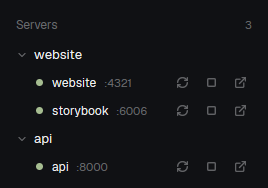
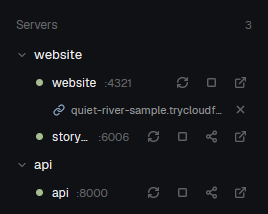
feat(servers): share a server through a public link (#5)
A Share button starts a Cloudflare quick tunnel to the server's port as a pane-less herdr-core terminal named share-<port>, shows its address under the server and copies it. The share ends from its row, with the server's Stop, or when the server is gone.

Claude-Session: https://claude.ai/code/session_017X7Wkih5tBkeugL9aTSrgA

diff --git a/servers/mods/servers/main.js b/servers/mods/servers/main.js
@@ -1,8 +1,8 @@
 // A sidebar section listing the local servers that are running: every process
 // listening on a TCP port that was started from a Herdr terminal or is a dev
 // runtime (node, bun, python, ...), grouped under the space it belongs to.
-// Each one has a button that restarts it, one that stops it and one that opens
-// it in the browser.
+// Each one has buttons that restart it, stop it, share it through a public
+// link (a Cloudflare quick tunnel) and open it in the browser.
 // A space's row folds its servers away, as a file's row does in figma-bridge.
 // The list comes from scan.js, run every few seconds while the section is shown.
 // props { demo: true } draws sample rows without running anything; with
@@ -16,11 +16,11 @@ import { scan, listeners, argv } from "./scan.js";
 const MOD = "servers";
 const ICON = (name) => `mods/${MOD}/${name}.svg`;
 const EVERY = 5000;
-const HEAD = 41, GROUP = 28, ROW = 28, NOTE = 48, FOOT = 8, MAX = 300;
+const HEAD = 41, GROUP = 28, ROW = 28, SHARE = 26, NOTE = 48, FOOT = 8, MAX = 300;
 const OTHER = "other"; // the group of servers no space claims
 
 const DEMO = [
-  { space: "a", label: "website", servers: [{ port: 4321, pid: 1, name: "website", tool: "astro" }, { port: 6006, pid: 2, name: "storybook", tool: "storybook" }] },
+  { space: "a", label: "website", servers: [{ port: 4321, pid: 1, name: "website", tool: "astro", link: "https://quiet-river-sample.trycloudflare.com" }, { port: 6006, pid: 2, name: "storybook", tool: "storybook" }] },
   { space: "b", label: "api", servers: [{ port: 8000, pid: 3, name: "api", tool: "uvicorn" }] },
 ];
 
@@ -82,6 +82,11 @@ export default class Servers extends View {
     this.error = null;
     this.cache = new Map();
     this.stopping = new Set();
+    this.restarting = new Set(); // ports
+    this.pending = new Set();    // ports whose tunnel is starting
+    this.fresh = new Set();      // ports whose address is copied when it arrives
+    this.urls = new Map();       // tunnel terminal -> public address
+    this.missed = new Map();     // port -> reloads its server has been gone
     try { this.folded = new Set(JSON.parse(localStorage.getItem("folded") ?? "[]")); } catch { this.folded = new Set(); }
     if (this.demo) { this.folded = new Set(props().folded ?? []); return; }
     cx.timer.every(EVERY, (cx) => { if (!this.loading && (block()?.shown ?? true)) this.poll(cx); });
@@ -96,10 +101,83 @@ export default class Servers extends View {
         const pids = new Set(this.servers.map((s) => s.pid));
         for (const pid of this.stopping) if (!pids.has(pid)) this.stopping.delete(pid);
         this.error = null;
+        await this.links(cx);
       } catch (e) {
         this.error = { title: "Couldn't list the servers", body: String(e?.message ?? e).slice(0, 160) };
       } finally { this.loading = false; cx.notify(); }
     });
+  }
+
+  // The tunnels: live herdr-core terminals named share-<port>, each running
+  // cloudflared for that port. Map port -> terminal address.
+  shares() {
+    const found = new Map();
+    for (const t of terminals()) {
+      const m = /^share-(\d+)$/.exec(t.name ?? "");
+      if (m && (t.state ?? "live") === "live") found.set(Number(m[1]), t.address);
+    }
+    return found;
+  }
+
+  // Reads each new tunnel's public address off its terminal, and ends the
+  // tunnels whose server has been gone for three reloads.
+  async links(cx) {
+    const shared = this.shares(), ports = new Set(this.servers.map((s) => s.port));
+    for (const address of this.urls.keys()) if (![...shared.values()].includes(address)) this.urls.delete(address);
+    for (const [port, address] of shared) {
+      this.pending.delete(port);
+      if (!this.urls.has(address)) {
+        const url = (await hc(["read", address, "--lines", "200"])).stdout.match(/https:\/\/[a-z0-9-]+\.trycloudflare\.com/)?.[0];
+        if (url) {
+          this.urls.set(address, url);
+          if (this.fresh.delete(port)) { cx.write_to_clipboard(url); notify({ title: "Public link copied", body: url, level: "success" }); }
+        }
+      }
+      const missed = ports.has(port) || this.restarting.has(port) ? 0 : (this.missed.get(port) ?? 0) + 1;
+      this.missed.set(port, missed);
+      if (missed >= 3) { this.missed.delete(port); await hc(["kill", address]); }
+    }
+  }
+
+  // The cloudflared program: on PATH, else where its installers put it (a
+  // running Herdr doesn't see a PATH changed after it started).
+  async cloudflared() {
+    const places = window().platform === "windows"
+      ? ["cloudflared", "C:\\Program Files (x86)\\cloudflared\\cloudflared.exe", "C:\\Program Files\\cloudflared\\cloudflared.exe"]
+      : ["cloudflared", "/opt/homebrew/bin/cloudflared", "/usr/local/bin/cloudflared"];
+    for (const path of places) {
+      try { if ((await exec(path, ["--version"], { timeout: 10000 })).code === 0) return path; } catch { /* not there */ }
+    }
+    return null;
+  }
+
+  // Gives the server a public address: a Cloudflare quick tunnel, run as a
+  // herdr-core terminal without a pane. Its address is copied once it is known.
+  share(s, cx) {
+    if (this.pending.has(s.port) || this.shares().has(s.port)) return;
+    this.pending.add(s.port);
+    cx.notify();
+    cx.spawn(async (cx) => {
+      try {
+        this.tunnel ??= await this.cloudflared();
+        if (!this.tunnel) throw new Error("cloudflared isn't installed. Windows: winget install Cloudflare.cloudflared. macOS: brew install cloudflared.");
+        // The Host header is rewritten because Vite-based servers refuse hosts they don't know.
+        const r = await hc(["run", "--json", "--bg", "--rm", "--no-parent", "--name", `share-${s.port}`, "--", this.tunnel, "tunnel", "--url", `http://localhost:${s.port}`, "--http-host-header", "localhost"]);
+        if (r.code !== 0) throw new Error((r.stderr || r.stdout).trim().split("\n")[0]);
+        this.fresh.add(s.port);
+      } catch (e) {
+        this.pending.delete(s.port);
+        notify({ title: `Couldn't share ${s.name} :${s.port}`, body: String(e?.message ?? e).slice(0, 200), level: "error" });
+      }
+      cx.notify();
+    });
+  }
+
+  unshare(port, cx) {
+    const address = this.shares().get(port);
+    this.pending.delete(port); this.fresh.delete(port);
+    if (!address) return;
+    cx.spawn(async (cx) => { await hc(["kill", address]); cx.notify(); });
   }
 
   // Ends the server's process and the ones it started.
@@ -112,6 +190,7 @@ export default class Servers extends View {
     if (this.stopping.has(s.pid)) return;
     this.stopping.add(s.pid);
     cx.notify();
+    this.unshare(s.port, cx);
     cx.spawn(async (cx) => {
       try { await this.kill(s); } catch (e) {
         this.stopping.delete(s.pid);
@@ -127,6 +206,7 @@ export default class Servers extends View {
   restart(s, cx) {
     if (this.stopping.has(s.pid)) return;
     this.stopping.add(s.pid);
+    this.restarting.add(s.port); // its tunnel, if any, stays for the new one
     cx.notify();
     cx.spawn(async (cx) => {
       try {
@@ -137,6 +217,7 @@ export default class Servers extends View {
       } catch (e) {
         notify({ title: `Couldn't restart ${s.name} :${s.port}`, body: String(e?.message ?? e).slice(0, 160), level: "error" });
       }
+      this.restarting.delete(s.port);
       this.poll(cx);
     });
   }
@@ -180,7 +261,19 @@ export default class Servers extends View {
       .when(folded, (el) => el.child(div().flex_none().px(5).py(1).rounded(4).border_1().border_color(t.border).text_size(10).text_color(t.muted).child(String(g.servers.length))));
   }
 
-  serverRow(g, s, t) {
+  // Under a shared server: its public address (click to copy) and a button
+  // that ends the tunnel. `url` is null while the tunnel is starting.
+  shareRow(s, url, t) {
+    return h_flex().id(`l-${s.port}`).h(SHARE).flex_none().pl(45).pr(8).gap(6).items_center().rounded(8).text_size(11)
+      .when(Boolean(url), (el) => el.cursor_pointer().hover((h) => h.bg(t.hover))
+        .tooltip("Public link: anyone who has it can see this server. Click to copy.")
+        .on_click((_e, cx) => { if (this.demo) return; cx.write_to_clipboard(url); notify({ title: "Public link copied", body: url, level: "success" }); }))
+      .child(url ? svg(ICON("link")).size(12).flex_none().text_color(t.accent) : svg(ICON("spinner")).size(12).flex_none().text_color(t.dim).spin(900))
+      .child(div().flex_1().min_w(0).truncate().text_color(url ? t.muted : t.dim).child(url ? url.replace(/^https:\/\//, "") : "Creating link…"))
+      .child(this.button(`u-${s.port}`, "x", "Stop sharing", t.foreground, t, (cx) => { if (!this.demo) this.unshare(s.port, cx); }));
+  }
+
+  serverRow(g, s, t, shared) {
     const stopping = this.stopping.has(s.pid), go = g.space !== OTHER && !this.demo;
     const tip = [s.tool && s.tool !== s.name ? s.tool : null, s.dir, s.pid ? `pid ${s.pid}` : null].filter(Boolean).join(" · ");
     return h_flex().id(`s-${s.pid}-${s.port}`).h(ROW).flex_none().pl(26).pr(8).gap(7).items_center().rounded(8).text_size(12)
@@ -194,6 +287,7 @@ export default class Servers extends View {
       .when(!stopping, (el) => el
         .when(this.demo || Boolean(s.dir && s.cmd), (el) => el.child(this.button(`r-${s.pid}-${s.port}`, "restart", "Restart", t.foreground, t, (cx) => { if (!this.demo) this.restart(s, cx); })))
         .child(this.button(`x-${s.pid}-${s.port}`, "stop", "Stop", t.ansi1, t, (cx) => { if (!this.demo) this.stop(s, cx); }))
+        .when(!shared, (el) => el.child(this.button(`h-${s.pid}-${s.port}`, "share", "Share a public link", t.accent, t, (cx) => { if (!this.demo) this.share(s, cx); })))
         .child(this.button(`o-${s.pid}-${s.port}`, "external", "Open in browser", t.foreground, t, (cx) => cx.open_url(`http://localhost:${s.port}`))));
   }
 
@@ -201,6 +295,7 @@ export default class Servers extends View {
     const t = theme();
     const list = this.demo ? DEMO : this.servers ? groups(this.servers) : [];
     const count = list.reduce((n, g) => n + g.servers.length, 0);
+    const shares = this.demo ? new Map() : this.shares();
     const rows = [];
     let height = HEAD + FOOT;
     // Folded server rows still count toward the height, so folding a space
@@ -210,7 +305,12 @@ export default class Servers extends View {
     else if (this.servers && !count) add(this.note("No servers running", "A dev server shows here once it listens on a port.", t), NOTE);
     else for (const g of list) {
       add(this.groupRow(g, t), GROUP);
-      for (const s of g.servers) add(this.folded.has(g.space) ? null : this.serverRow(g, s, t), ROW);
+      for (const s of g.servers) {
+        const open = !this.folded.has(g.space), address = shares.get(s.port);
+        const shared = Boolean(address) || this.pending.has(s.port) || Boolean(s.link);
+        add(open ? this.serverRow(g, s, t, shared) : null, ROW);
+        if (shared) add(open ? this.shareRow(s, s.link ?? this.urls.get(address) ?? null, t) : null, SHARE);
+      }
     }
     if (!this.demo) this.fit(height);
 

diff --git a/servers/mods/servers/scan.js b/servers/mods/servers/scan.js
@@ -108,7 +108,7 @@ export async function scan(exec, platform, cache) {
         seen.add(up); ancestors.push(up); names.push(bare(table.get(up).name));
       }
       const proc = bare(p.name), herdr = names.some((n) => n === "herdr-core" || n === "hc");
-      const show = (herdr || RUNTIMES.test(proc)) && !HIDDEN.test(p.cmd) && !/^herdr/.test(proc);
+      const show = (herdr || RUNTIMES.test(proc)) && !HIDDEN.test(p.cmd) && !/^(herdr|cloudflared)/.test(proc);
       if (!show) { cache.set(pid, { show: false }); continue; }
       const dir = await folder(exec, platform, pid, p.cmd);
       const what = tool(p.cmd, proc);

diff --git a/servers/RECIPE.md b/servers/RECIPE.md
@@ -1,6 +1,6 @@
 # Servers
 
-A sidebar section that lists the local servers running on this computer under the space each belongs to. Every server has a button that restarts it, one that stops it and one that opens it in the browser. It sits in the left sidebar under the agents list.
+A sidebar section that lists the local servers running on this computer under the space each belongs to. Every server has buttons that restart it, stop it, share it through a temporary public link and open it in the browser. It sits in the left sidebar under the agents list.
 
 ![Servers](preview.png)
 
@@ -17,7 +17,9 @@ A section that fills its block: `chrome` background, 1px `border` above, text 13
 - a 7px dot in `ansi2`;
 - the server's name, truncated: its folder's last part, else what it runs. Tooltip: what it runs (when not the name), the folder and `pid <n>`, joined by " · ";
 - `:<port>` in 11px `dim`;
-- at the right three 22px buttons with 13px icons in `dim`, `selected` background on hover: Restart (two circling arrows, `foreground` on hover, tooltip "Restart"; absent when the server's folder is unknown), Stop (a rounded square, `ansi1` on hover, tooltip "Stop") and Open (an external-link arrow, `foreground` on hover, tooltip "Open in browser").
+- at the right four 22px buttons with 13px icons in `dim`, `selected` background on hover: Restart (two circling arrows, `foreground` on hover, tooltip "Restart"; absent when the server's folder is unknown), Stop (a rounded square, `ansi1` on hover, tooltip "Stop"), Share (three joined dots, `accent` on hover, tooltip "Share a public link"; absent while the server is shared) and Open (an external-link arrow, `foreground` on hover, tooltip "Open in browser").
+
+**Share row**, under a shared server, 26px, 45px left and 8px right padding, 6px gaps, radius 8, 11px text: a 12px link icon in `accent`; the public address without `https://`, truncated, in `muted`; a 22px ✕ button, tooltip "Stop sharing". `hover` on hover, tooltip "Public link: anyone who has it can see this server. Click to copy." While the tunnel starts: a 12px spinner and "Creating link…" in `dim`.
 
 While a server is being stopped or restarted its row is `dim`, the dot is a 12px spinner turning once per 900 ms, and the buttons are gone.
 
@@ -31,6 +33,9 @@ While a server is being stopped or restarted its row is `dim`, the dot is a 12px
 - Clicking a server row focuses the pane that started it when known, else selects its space. Rows under "Other" do nothing.
 - Stop ends the process and its children at once, with no confirmation, then reloads the list; the row goes when the port closes. If the program refuses, an error toast says so and the row comes back.
 - Restart ends the process and its children, waits until nothing listens on the port (at most 20 looks), then starts the server's command line again in its folder as a herdr-core terminal with no pane and no parent, removed when it exits. The new server shows on the next reload. A failure at any step is an error toast.
+- Share starts a Cloudflare quick tunnel to the server's port as a herdr-core terminal named `share-<port>`, with no pane and no parent. The share row shows at once with "Creating link…"; on a following reload the address is read off the terminal, copied to the clipboard and announced in a success toast "Public link copied". Clicking the share row copies it again, with the same toast. A missing `cloudflared` is an error toast with the install commands.
+- A server is shared when a live terminal named `share-<port>` exists, whoever started it; nothing else is stored, so shares survive a restart of the app.
+- Stop sharing (✕) ends that terminal. Stop on the server ends it too. Restart keeps it. A share whose port has had no listed server for three reloads in a row is ended.
 - Open opens `http://localhost:<port>` in the system browser.
 - It reloads every 5 s while its layout block is shown; a hidden block runs nothing.
 - The block resizes itself with `layout.resize` to the height of its content with every space unfolded, up to 300px, then scrolls. Folding a space leaves the block's size unchanged.
@@ -38,8 +43,8 @@ While a server is being stopped or restarted its row is `dim`, the dot is a 12px
 
 ## Built from
 
-- `mods/servers/`: `main.js`, `scan.js`, `mod.json` `{ "place": "none", "title": "Servers" }`, icons `restart`, `stop`, `external`, `spinner`, `chevron-down`, `chevron-right` (drawn after Lucide) and `LICENSE-lucide.txt`.
-- `main.js`: one `View`. `herdr` functions: `spaces`, `panes`, `terminals`, `exec`, `hc`, `theme`, `layout`, `props`, `home`, `window`, `run`, `notify`. Commands: `pane.focus {pane}`, `space.select {id}`, `layout.resize {id, px}`. `cx.open_url`, `cx.timer.every`. `props { demo: true }` draws two sample spaces at 268px wide and runs nothing; `folded: ["b"]` starts the second one folded.
+- `mods/servers/`: `main.js`, `scan.js`, `mod.json` `{ "place": "none", "title": "Servers" }`, icons `restart`, `stop`, `share`, `link`, `x`, `external`, `spinner`, `chevron-down`, `chevron-right` (drawn after Lucide) and `LICENSE-lucide.txt`.
+- `main.js`: one `View`. `herdr` functions: `spaces`, `panes`, `terminals`, `exec`, `hc`, `theme`, `layout`, `props`, `home`, `window`, `run`, `notify`. Commands: `pane.focus {pane}`, `space.select {id}`, `layout.resize {id, px}`. `cx.open_url`, `cx.write_to_clipboard`, `cx.timer.every`. `props { demo: true }` draws two sample spaces at 268px wide and runs nothing; `folded: ["b"]` starts the second one folded.
 - `scan.js` exports `scan(exec, platform, cache)`, which resolves with `[{ port, pid, proc, cmd, dir, tool, name, herdr, ancestors }]` sorted by port. `platform` is `window().platform`; `cache` is a `Map` the view keeps.
   1. Listeners. Windows: `netstat -ano`, rows matching `TCP <local>:<port> (0.0.0.0|[::]):0 <state> <pid>`. Elsewhere: `lsof -nP -iTCP -sTCP:LISTEN -Fpn` (`p` lines give the pid, `n` lines end in the port), or `ss -ltnpH` when `lsof` can't run. Deduplicated by pid and port.
   2. Cache entries of pids no longer listening are dropped. If a listening pid is not cached, the process table is read once: Windows `powershell -NoProfile -NonInteractive -Command "[Console]::OutputEncoding=[Text.Encoding]::UTF8; Get-CimInstance Win32_Process | Select-Object ProcessId,ParentProcessId,Name,CommandLine | ConvertTo-Json -Compress"` (30 s); elsewhere `ps -A -o pid=,ppid=,args=`.
@@ -48,6 +53,9 @@ While a server is being stopped or restarted its row is `dim`, the dot is a 12px
   5. `tool`: the name after `node_modules/.bin/` (through a `..` if there is one), else the package after `node_modules/`, else the first argument that is not an option without its extension, else the program. `name`: the last part of `dir`, else `tool`.
 - Stop: `taskkill /PID <pid> /T /F` on Windows, `kill <pid>` elsewhere, through `exec`.
 - Restart: the same, then `scan.js`'s `listeners(exec, platform)` until the port is absent, then `hc(["run", "--json", "--bg", "--rm", "--no-parent", "--cwd", dir, "--", ...argv(cmd)])`. `argv` (from `scan.js`) splits the command line on spaces, keeping double-quoted parts whole.
+
+- Share: the program is the first of `cloudflared`, then `C:Program Files (x86)cloudflaredcloudflared.exe` and `C:Program Filescloudflaredcloudflared.exe` on Windows or `/opt/homebrew/bin/cloudflared` and `/usr/local/bin/cloudflared` elsewhere, that runs `--version` with code 0. Then `hc(["run", "--json", "--bg", "--rm", "--no-parent", "--name", "share-<port>", "--", program, "tunnel", "--url", "http://localhost:<port>", "--http-host-header", "localhost"])`. Shares: `terminals()` entries whose `name` matches `share-<digits>` and whose `state` is `live`. Address: the first `https://[a-z0-9-]+.trycloudflare.com` in `hc read <address> --lines 200`, kept in memory per terminal address. End: `hc kill <address>`.
+- `scan.js` leaves out processes named `cloudflared`: the tunnel listens on a local metrics port.
 
 **Wiring it into the window.** Shipped layouts are read-only and restored on every start: if the person's layout is shipped, clone it (`layout.clone`) and edit the clone. In the sidebar's lists column (`sidebar-lists` in the `main` layout, 0.1.15), after the agents block:
 
@@ -66,6 +74,10 @@ Without a layout change: `herdr-app do pane.split '{"direction":"right","mod":"s
 - Windows gives no working folder for another process; the command line is the only source. `node_modules\.bin\\..\astro\astro.js` has a doubled separator: match runs of separators.
 - Start the restarted server only once the port is free: Astro and Vite take the next port when theirs is busy.
 - Restart re-runs the listening process's command line, not the `npm`/`pnpm` script above it: the environment that script set, and variables typed before the command, are not carried over. `ps` drops quoting, so off Windows arguments with spaces split.
+- cloudflared prints the address a few seconds after it starts, and a mod can't sleep: read it on the reloads that follow, not in a loop.
+- A Herdr that was running when cloudflared was installed doesn't have it on `PATH` yet; that is why the install folders are tried.
+- Without `--http-host-header localhost`, Vite and Astro dev servers answer the tunnel's host name with "Blocked request".
+- `--name` must be unique among live terminals: a second Share for the same port is refused by herdr-core, so check `shares()` first.
 - A terminal at the home folder contains every project: skip it when matching by folder.
 - `scan.js` takes `exec` as an argument so it can be run outside Herdr with a `child_process` stand-in; keep it free of `herdr` imports.
 - The block is found by `content.mod === "servers"`; a renamed copy must update that constant.
@@ -79,6 +91,8 @@ Without a layout change: `herdr-app do pane.split '{"direction":"right","mod":"s
 - After `node -e "require('http').createServer((q,r)=>r.end('ok')).listen(4999)"` in a Herdr terminal, a row with `:4999` shows within 5 s under that terminal's space, and the heading's number goes up by one.
 - Its Open button opens `http://localhost:4999` in the browser.
 - Its Restart button brings the row back on the same port with a new pid, and `hc ls` lists the new terminal.
+- Its Share button shows "Creating link…", then within about 10 s an address that is on the clipboard and that serves the page from another network; `hc ls` lists `share-4999`, and no `cloudflared` row appears in the section.
+- The share row's ✕ ends that terminal and the address stops answering.
 - Its Stop button ends that process; the row is gone within 5 s and the port is free.
 - A server started in the background by an agent shows under the space working in its folder.
 - Clicking a space row hides its server rows and shows their count; clicking again shows them; the choice survives a restart.

diff --git a/servers/README.md b/servers/README.md
@@ -1,6 +1,6 @@
 # Servers for Herdr
 
-A sidebar section for the [Herdr](https://herdr.dev) desktop app that lists the local servers running on your computer, under the space each belongs to, with buttons to restart each one, stop it and open it in the browser.
+A sidebar section for the [Herdr](https://herdr.dev) desktop app that lists the local servers running on your computer, under the space each belongs to, with buttons to restart each one, stop it, share it through a public link and open it in the browser.
 
 ![Servers](preview.png)
 
@@ -10,6 +10,7 @@ A sidebar section for the [Herdr](https://herdr.dev) desktop app that lists the 
 - **Grouped by space**: a server sits under the space whose terminal started it, or whose terminals are in its folder. The rest go under "Other". Click a space's row to fold its servers away.
 - **Restart**: stops the server and runs its command again in its folder, for when hot reload gives up. The new one runs in the background as a herdr-core terminal without a pane (`hc ls` shows it).
 - **Stop**: ends the server's process and the processes it started.
+- **Share**: gives the server a temporary public address (`https://<random words>.trycloudflare.com`) through a Cloudflare quick tunnel and copies it. The address shows under the server; click it to copy it again, or its ✕ to stop sharing. **Anyone who has the link can see the server until you stop sharing**; there is no password.
 - **Open in browser**: opens `http://localhost:<port>`.
 - Click a server to go to its space.
 
@@ -18,7 +19,9 @@ A sidebar section for the [Herdr](https://herdr.dev) desktop app that lists the 
 - Windows: `netstat`, `taskkill` and Windows PowerShell, all part of the system.
 - macOS and Linux: `lsof` (or `ss` on Linux), `ps` and `kill`.
 
-Nothing to install; it does not need Node.js.
+Nothing to install for the list; it does not need Node.js.
+
+Share needs [cloudflared](https://developers.cloudflare.com/cloudflare-one/networks/connectors/cloudflare-tunnel/downloads/) (`winget install Cloudflare.cloudflared`, `brew install cloudflared`). No Cloudflare account is needed.
 
 ## Install
 
@@ -40,13 +43,20 @@ Every 5 seconds while the section is on screen:
 - `netstat -ano` on Windows, `lsof -nP -iTCP -sTCP:LISTEN -Fpn` elsewhere (`ss -ltnpH` without `lsof`), to list the listening ports;
 - only when a process it hasn't seen starts listening, the process list: `Get-CimInstance Win32_Process` through PowerShell on Windows, `ps -A -o pid=,ppid=,args=` elsewhere; and on macOS and Linux the new process's working folder (`lsof -a -d cwd -p <pid>`, `readlink /proc/<pid>/cwd`).
 
-When you click Stop: `taskkill /PID <pid> /T /F` on Windows, `kill <pid>` elsewhere. When you click Restart: the same, then `hc run --bg --rm --no-parent --cwd <folder> -- <the server's command>`. When you click Open, the system browser. It makes no network requests and writes no files.
+When you click Stop: `taskkill /PID <pid> /T /F` on Windows, `kill <pid>` elsewhere. When you click Restart: the same, then `hc run --bg --rm --no-parent --cwd <folder> -- <the server's command>`. When you click Open, the system browser.
+
+When you click Share: `cloudflared --version` to find the program, then `hc run --bg --rm --no-parent --name share-<port> -- cloudflared tunnel --url http://localhost:<port> --http-host-header localhost`, and `hc read` on that terminal to get its address. Stopping the share, or the server being gone for three reloads, runs `hc kill` on it. **While a server is shared, cloudflared keeps a connection to Cloudflare and the server is reachable from the internet.**
+
+The mod itself makes no network requests and writes no files.
 
 ## Limits
 
 - **Stop is immediate and forced on Windows.** There is no confirmation, and the server gets no chance to clean up.
 - **Restart runs the server's own command, not the script that launched it.** `npm run dev` comes back as `node …/astro.js dev`: same arguments and folder, but environment variables set by the launching script or typed before the command (`PORT=4400 pnpm dev`) are lost, and a server that was running in a terminal comes back in the background, not in that terminal.
 - Restart is offered only when the server's folder is known. On macOS and Linux arguments containing spaces are not rebuilt correctly.
+- A shared address is new every time, and stays up after Herdr closes: the tunnel runs in herdr-core. It ends when you stop sharing, stop the server from this list, or about 15 seconds after the server goes away while the section is on screen.
+- Quick tunnels are Cloudflare's testing service: no uptime promise, a cap on simultaneous requests, and no Server-Sent Events. The visitor's hot reload through the link is untested.
+- The tunnel tells the server the request is for `localhost`, so servers that refuse unknown hosts (Vite, Astro) answer. A server that builds absolute links from the host name will hand visitors `localhost` links.
 - A server restarted by a watcher or a process manager (nodemon, pm2, a Windows service) comes back after Stop.
 - Processes whose command line contains `mcp` are left out: agents' MCP servers listen on ports too. A project of yours with `mcp` in its path is hidden with them.
 - Databases and other services not started from a Herdr terminal (PostgreSQL as a service, Docker's proxy) are not listed.
